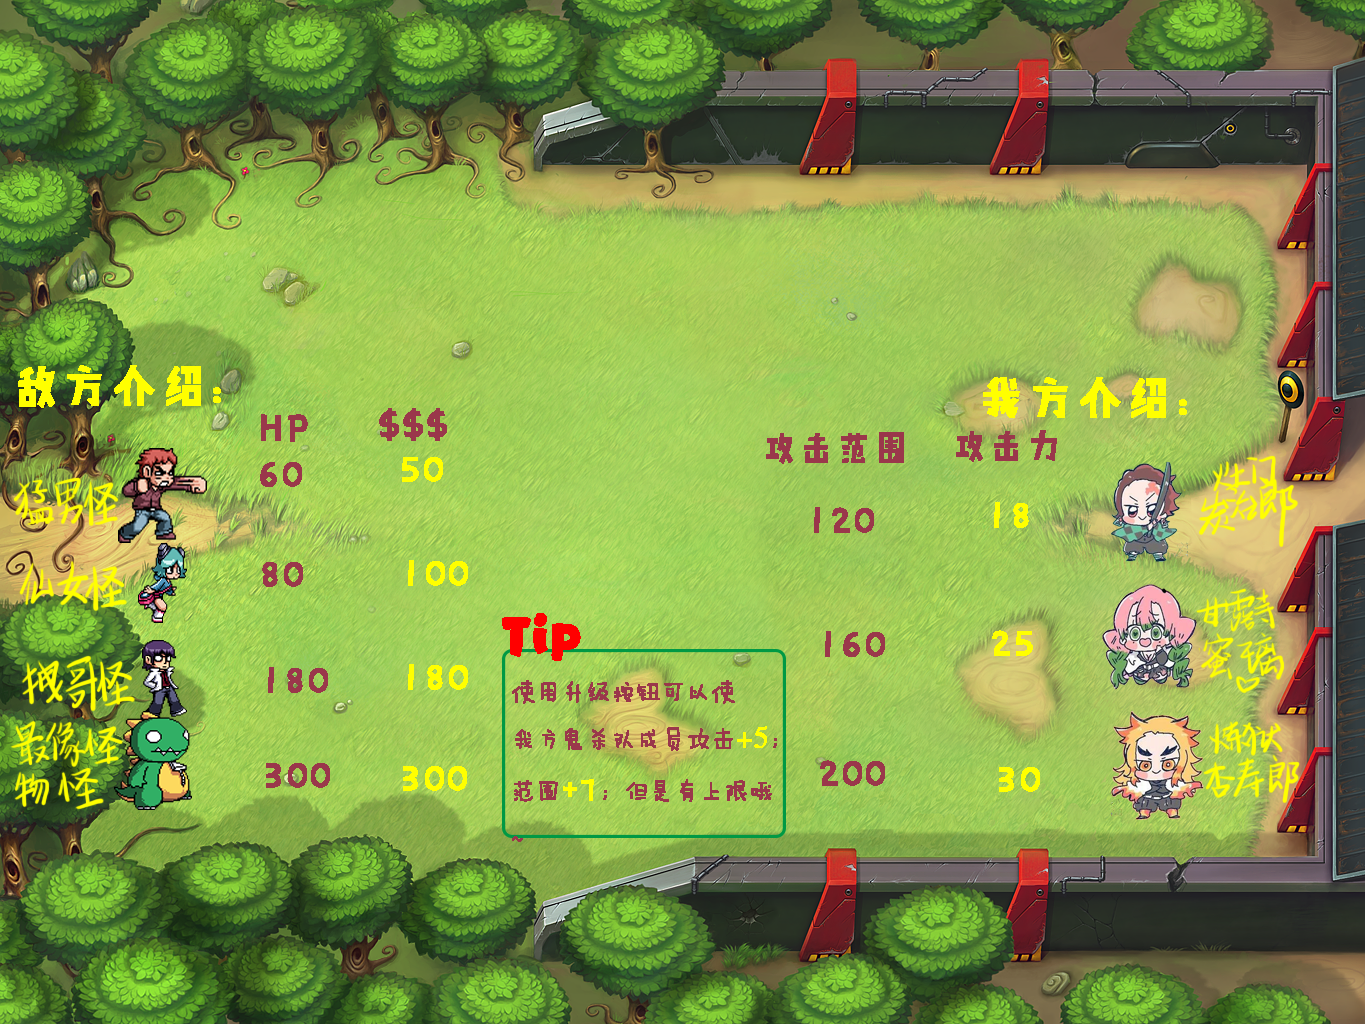
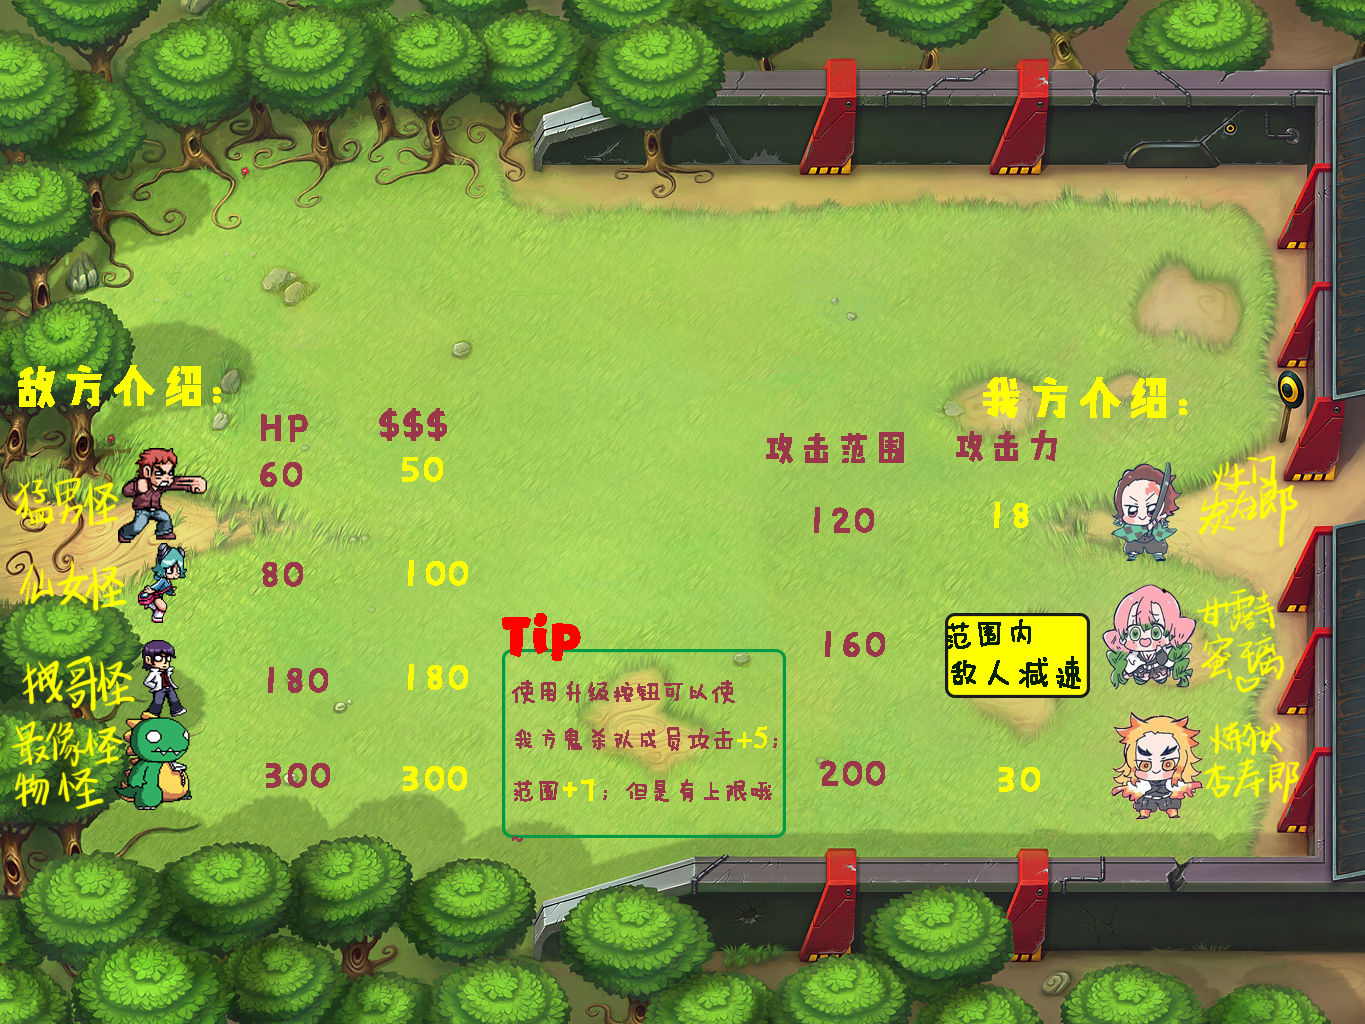
将2号塔改为了减速型塔

Changed region(s): [[0.6769, 0.5938, 0.8, 0.6875]]

diff --git a/gameworld.cpp b/gameworld.cpp
@@ -65,8 +65,8 @@ Gameworld::Gameworld(int i):level(i){
         case 1:
         {
             //设置路径点  第一关没有拐弯的地方，第一个拐点就是出发点，最后一个拐点即 家的坐标。
-           Point* path1[] = {/*new Point(0,260),*/new Point(960, 280)};
-           Point* path2[] = {/*new Point(0,290),*/ new Point(960, 280)};
+           Point* path1[] = {/*new Point(10,260),*/new Point(960, 280)};
+           Point* path2[] = {/*new Point(10,290),*/ new Point(960, 280)};
             //怪物的起始点数组MonsterStart，都规定好的
             Point start1(0,260);
             Point start2(0,290);
@@ -174,10 +174,12 @@ Gameworld::Gameworld(int i):level(i){
 
         for (auto aTower:TowerVec)      //遍历防御塔
         {
-            //先判断若当前防御塔没有目标，则创建目标
-            if (aTower->GetAimMonster()==NULL)
+            if(aTower->GetId()==1||aTower->GetId()==3)
             {
-                for(int i =MonsterVec.size()- 1;i>=0; i--)
+            //先判断若当前防御塔没有目标，则创建目标
+               if (aTower->GetAimMonster()==NULL)
+               {
+                   for(int i =MonsterVec.size()- 1;i>=0; i--)
                     //这里以防御塔中心点和怪物中心点判断  且怪物生命值要大于0
                     if (Distance(aTower->GetPitX()+40,aTower->GetPitY()+40,MonsterVec.at(i)->getx()+MonsterVec.at(i)->getwidth()/2,MonsterVec.at(i)->gety()+MonsterVec.at(i)->getheight()/2)<aTower->GetShootrange()+0.1)
                       if(MonsterVec.at(i)->getlife()>0)
@@ -185,11 +187,11 @@ Gameworld::Gameworld(int i):level(i){
                         aTower->SetAimsMonster(MonsterVec.at(i));    //设置防御塔的目标怪物
                         qDebug()<<"Aim monster get!";
                         break;  //找到后跳出循环
-                    }
-            }
+                     }
+                }
 
             //判断若当前防御塔拥有目标//目标在攻击范围内
-           if(aTower->GetAimMonster()!=NULL)
+               if(aTower->GetAimMonster()!=NULL)
                 {
                        //目标在攻击范围内
                    if (Distance(aTower->GetPitX()+40,aTower->GetPitY()+40,aTower->GetAimMonster()->getx()+aTower->GetAimMonster()->getwidth()/2,aTower->GetAimMonster()->gety()+aTower->GetAimMonster()->getheight()/2)<=aTower->GetShootrange())
@@ -208,17 +210,41 @@ Gameworld::Gameworld(int i):level(i){
                                        }
 
                                  }
-                 }
+                  }
            //判断若当前防御塔拥有目标,超过距离将目标怪物设为空
-           if(aTower->GetAimMonster()!=NULL)
+                if(aTower->GetAimMonster()!=NULL)
                   {
                       if(Distance(aTower->GetPitX()+40,aTower->GetPitY()+40,aTower->GetAimMonster()->getx()+aTower->GetAimMonster()->getwidth()/2,aTower->GetAimMonster()->gety()+aTower->GetAimMonster()->getheight()/2)>aTower->GetShootrange())
                                     aTower->SetAimsMonster(NULL);
 
                         // }
                   }
-           //qDebug()<<"BulletMove";
-         // aTower->BulletMove();
+            }
+            //如果是2型防御塔对怪物造成减速效果
+          else if(aTower->GetId()==2)
+            {
+                for(int i =MonsterVec.size()- 1;i>=0; i--)
+                 //这里以防御塔中心点和怪物中心点判断  且怪物生命值要大于0
+                 {
+                    if(MonsterVec.at(i)->getlife()>0)
+                     if (Distance(aTower->GetPitX()+40,aTower->GetPitY()+40,MonsterVec.at(i)->getx()+MonsterVec.at(i)->getwidth()/2,MonsterVec.at(i)->gety()+MonsterVec.at(i)->getheight()/2)<aTower->GetShootrange()+0.1)
+
+                      {
+                        MonsterVec.at(i)->SetSpeed(1);
+//                        aTower->SetAimsMonster(MonsterVec.at(i));    //设置防御塔的目标怪物
+//                     qDebug()<<"Aim monster get!";
+//                     break;  //找到后跳出循环
+                      }
+                     else{
+                          MonsterVec.at(i)->SetSpeed(MonsterVec.at(i)->getfullspeed());
+                     }
+
+
+
+
+                }
+
+            }
         }
 
 
@@ -628,7 +654,7 @@ void Gameworld::paintTower(QPainter &p){
 void Gameworld:: paintcircle(QPainter&p){
     for (auto aTower:TowerVec)  //遍历塔数组
     {
-      // 如果有目标就画
+      // 如果1、3有目标就画
         if(aTower->GetAimMonster()!=NULL)
         {
             if(aTower->GetId()==1)
@@ -636,16 +662,19 @@ void Gameworld:: paintcircle(QPainter&p){
                      p.setPen(QPen(Qt::red));  //使用红色画出范围
                      p.drawEllipse(QPoint(aTower->GetPitX()+40,aTower->GetPitY()+40),aTower->GetShootrange(),aTower->GetShootrange());
                  }
-            if(aTower->GetId()==2)
-                {
-                     p.setPen(QPen(Qt::green));  //使用绿色画出范围
-                     p.drawEllipse(QPoint(aTower->GetPitX()+40,aTower->GetPitY()+40),aTower->GetShootrange(),aTower->GetShootrange());
-                 }
+
             if(aTower->GetId()==3)
                 {
                      p.setPen(QPen(Qt::red));  //使用红色画出范围
                      p.drawEllipse(QPoint(aTower->GetPitX()+40,aTower->GetPitY()+40),aTower->GetShootrange(),aTower->GetShootrange());
                  }
+        }
+      if(aTower->GetId()==2)
+        {
+
+                     p.setPen(QPen(Qt::green));  //使用绿色画出范围
+                     p.drawEllipse(QPoint(aTower->GetPitX()+40,aTower->GetPitY()+40),aTower->GetShootrange(),aTower->GetShootrange());
+
         }
     }
 }

diff --git a/monster.cpp b/monster.cpp
@@ -49,6 +49,7 @@ Monster::Monster(int x1,int y1,Point** path1,int NumOfPathPoint1,int id):x(x1),y
             break;
     }
     fulllife=life;
+    fullspeed=speed;
 
 }
 
@@ -61,11 +62,17 @@ bool Monster::MonsterMove(){
         return true;
 
         //重合则删除此路径点
-      if (path.at(0)->y==this->y && path.at(0)->x==this->x)
+      if (abs(path.at(0)->y-this->y)<5&&abs(path.at(0)->x-this->x)<5)
        {
            path.erase(path.begin());
            return false;
        }
+//      if(path.size()==1)
+//      {
+//          if(abs(x-path.at(0)->x)<7&&abs(y-path.at(0)->y)<7)
+//              path.erase(path.begin());
+//            return false;
+//      }
 
     if (path.at(0)->y<y) //下
     {
@@ -94,6 +101,11 @@ bool Monster::MonsterMove(){
 //受伤害重置生命值
 void Monster::SetLife(int hurt){
     this->life=this->life-hurt;
+}
+
+void Monster::SetSpeed(int newspeed)
+{
+    this->speed=newspeed;
 }
 
 

diff --git a/monster.h b/monster.h
@@ -4,6 +4,7 @@
 #include<QString>
 #include <QVector>
 #include<Point.h>
+#include<math.h>
 
 //之前的怪物类名字打错了看着难受，重新开始造
 //设想是实现4种怪物，各种属性不一样
@@ -25,10 +26,12 @@ public:
     int getvalue(){return value;}
     int getlife(){return life;}
     int getfulllife(){return fulllife;}
+    int getfullspeed(){return fullspeed;}
     QString getMonsterPic(){return  MonsterPic;}
 
     //被击中后重置生命值
     void SetLife(int hurt);
+    void SetSpeed(int newspeed);
 
 private:
 
@@ -42,6 +45,7 @@ private:
     int life;//生命值
     int fulllife;//完整生命值v 用来画血条
     int speed;//速度
+    int fullspeed;//用于记录原始速度
 };
 
 #endif // MONSTER_H

diff --git a/towertwo.cpp b/towertwo.cpp
@@ -10,7 +10,7 @@ Towertwo::Towertwo(int x1,int y1,int pitx, int pity,int width1,int height1)
    this->PitY=pity;
     this->TowerPic= QString(":/Gamepic/turret2.png");
     id=2;
-    ShootRange=160;//射程
+    ShootRange=140;//射程
 
     attack=25;
 }
